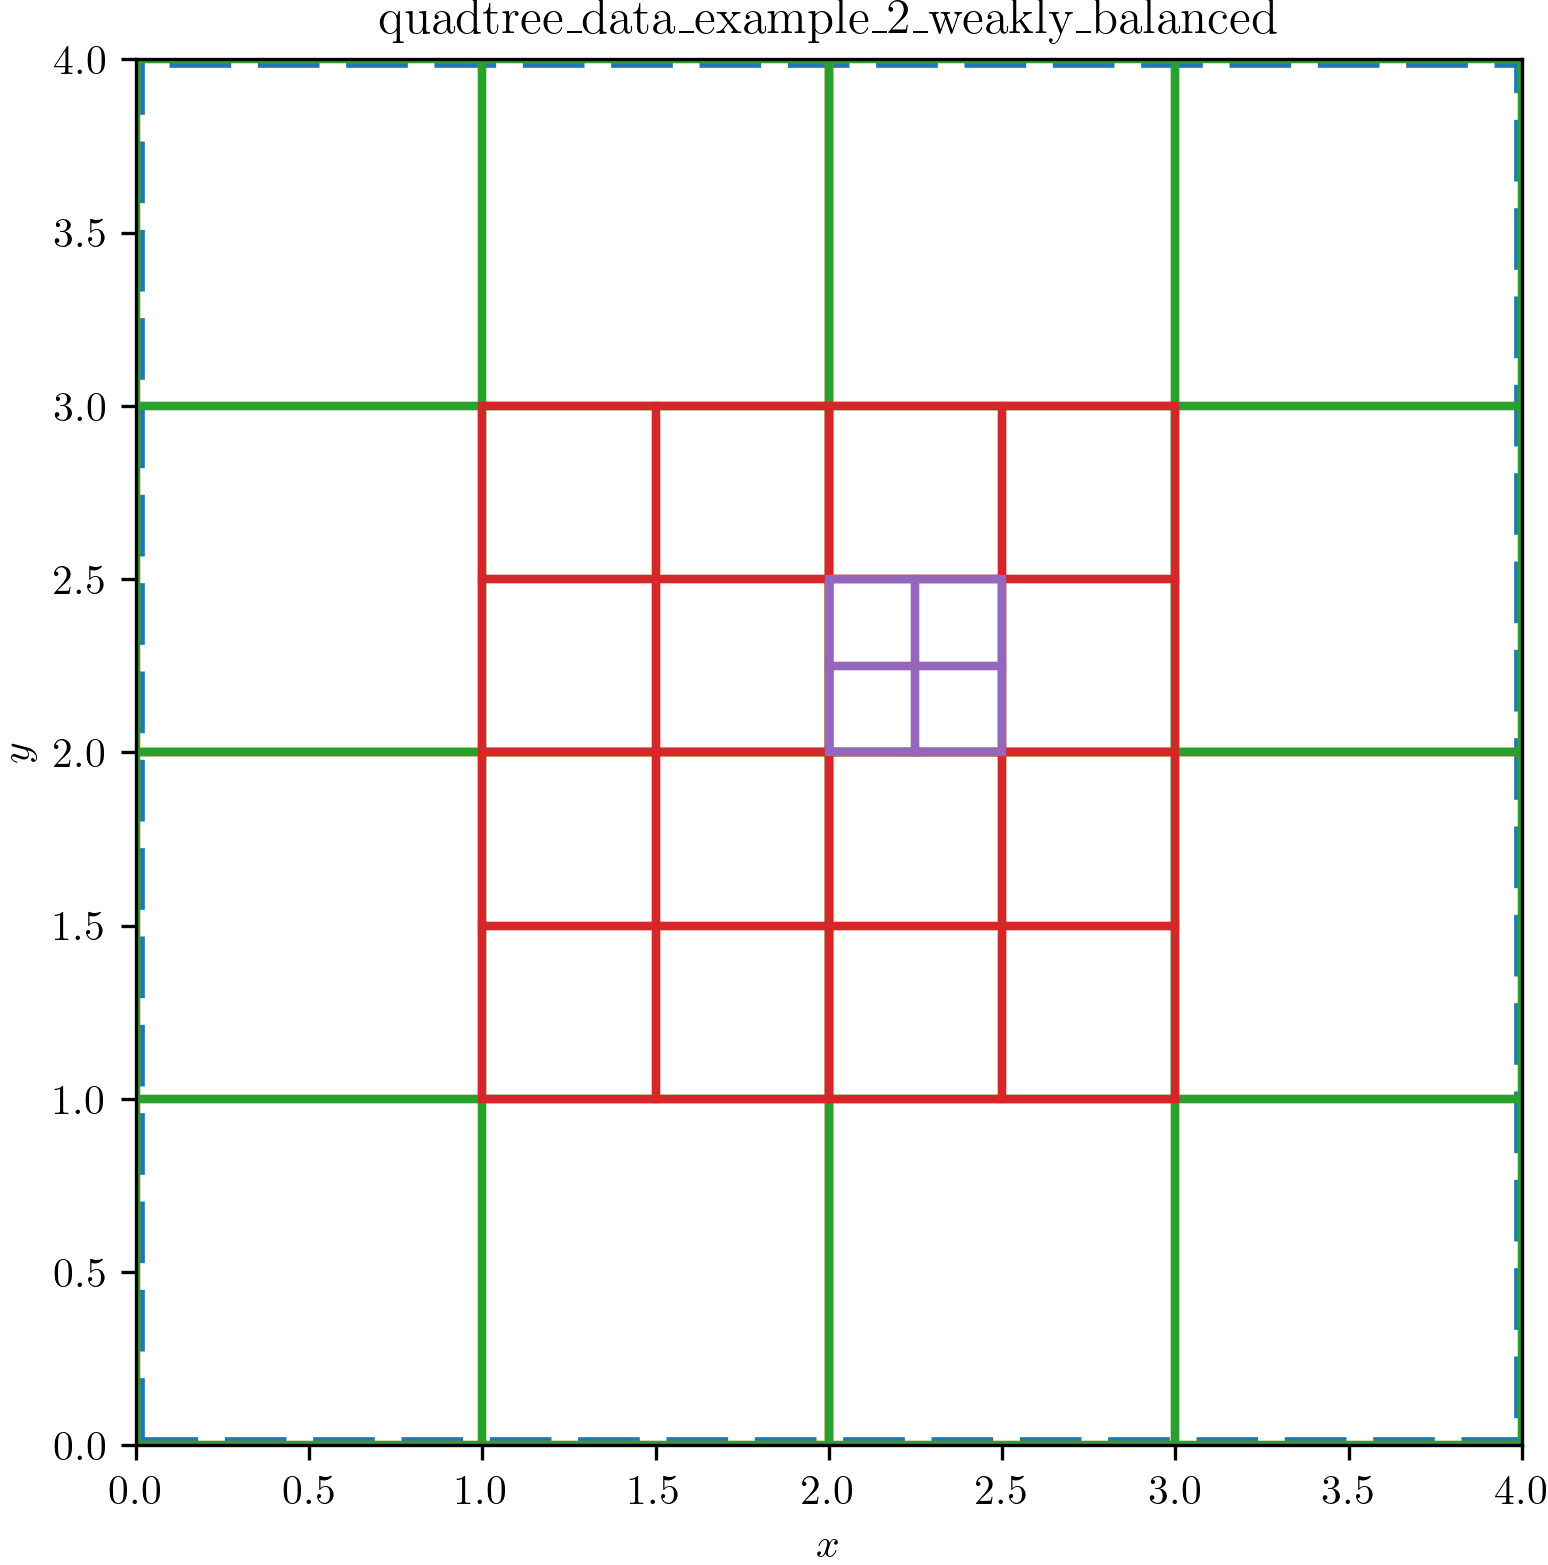
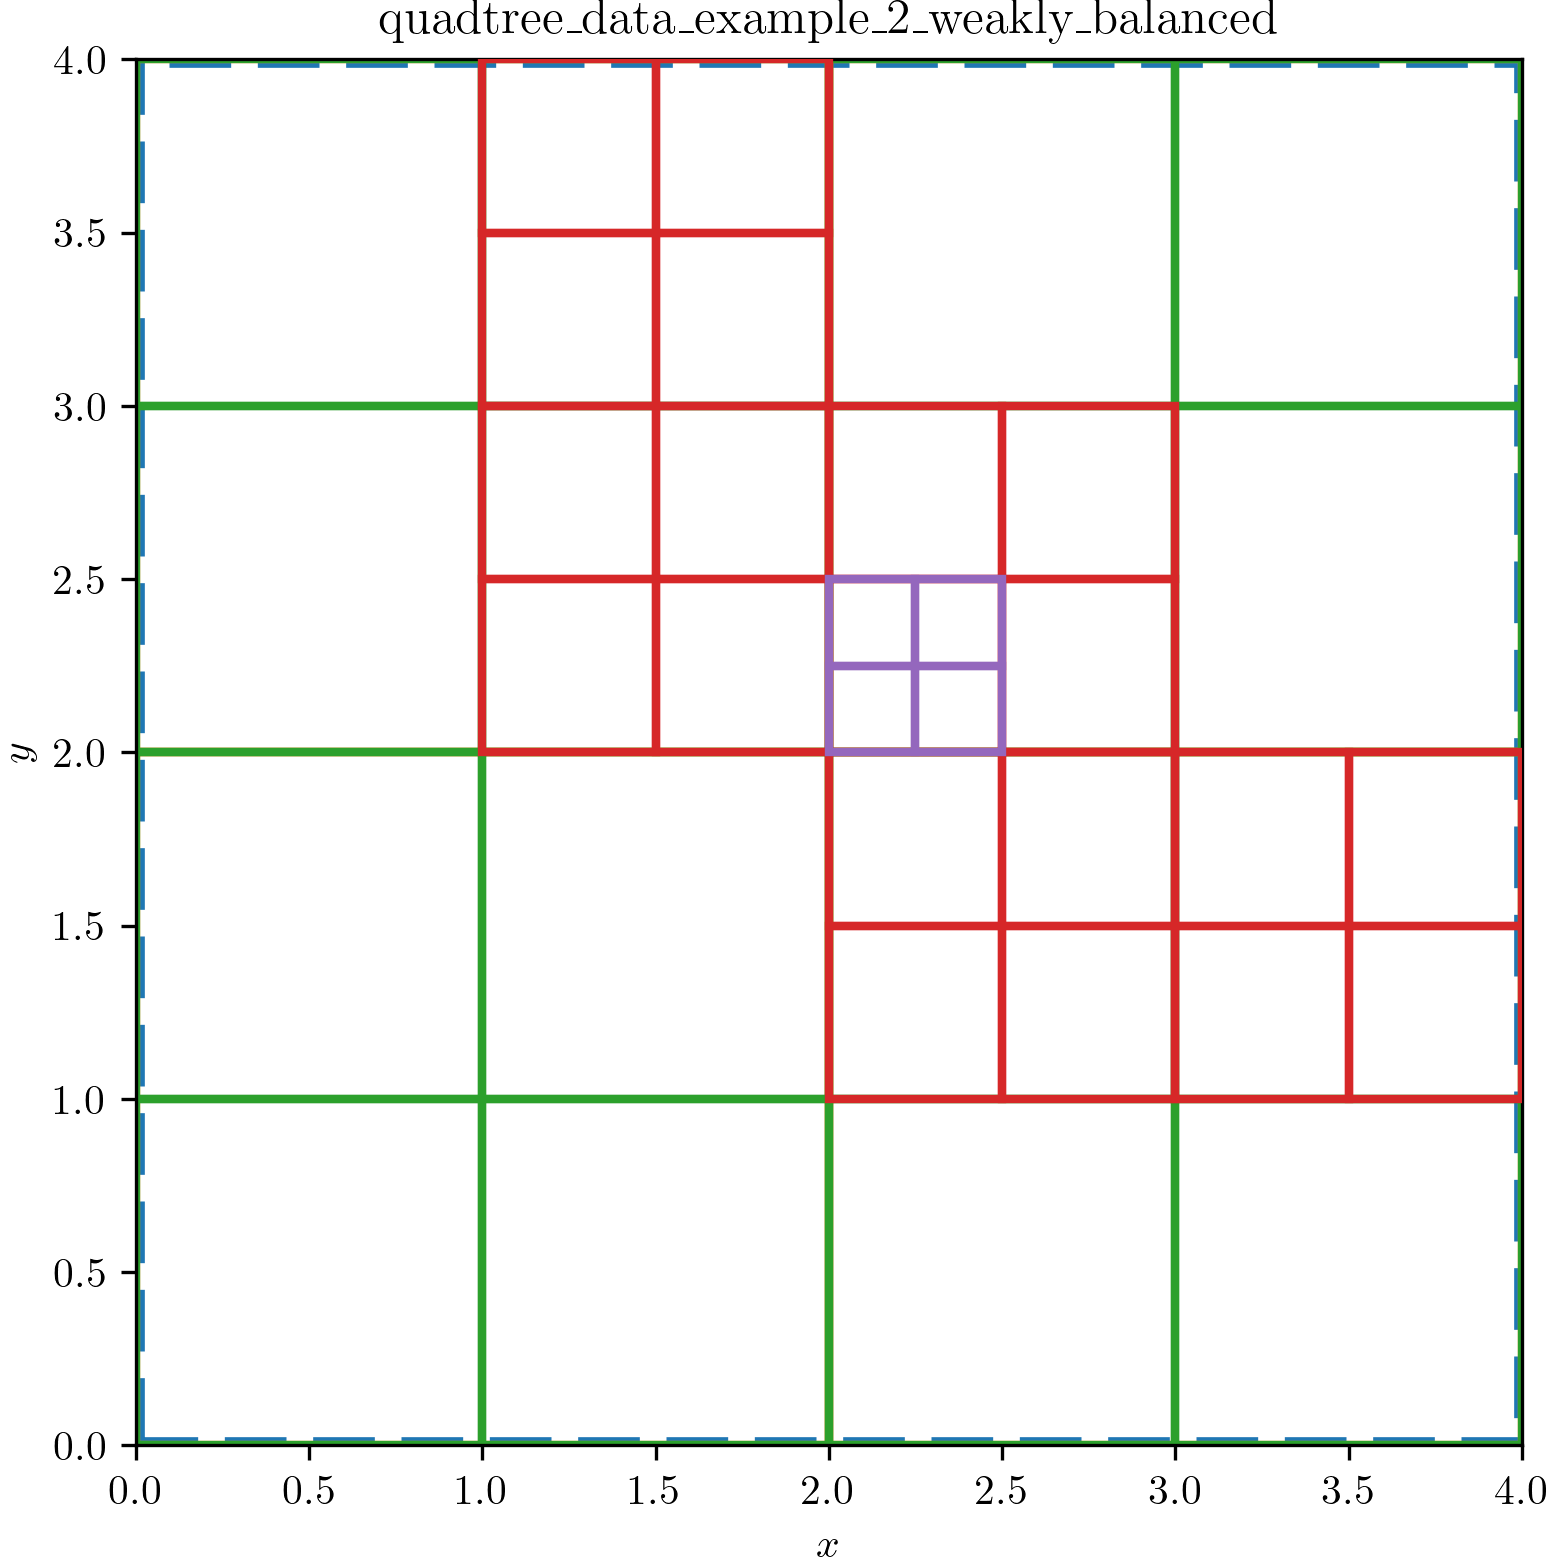
face search based on tree, not boundary small rectangle

Changed region(s): [[0.7442, 0.4601, 0.9922, 0.7054], [0.3101, 0.0307, 0.5581, 0.276], [0.3101, 0.4907, 0.5271, 0.7054]]

diff --git a/quadtree/src/lib.rs b/quadtree/src/lib.rs
@@ -49,6 +49,15 @@ pub struct Quadtree {
     pub node: Node,
 }
 
+/// A cardinal direction to search for face neighbors, to the north, east, south, west
+#[derive(Clone, Copy, Debug)]
+enum Direction {
+    North,
+    East,
+    South,
+    West,
+}
+
 impl Rectangle {
     /// Checks if a point is within the rectangle's boundary.
     ///
@@ -59,14 +68,15 @@ impl Rectangle {
             && point.y >= self.origin.y
             && point.y < self.origin.y + self.height
     }
-    // Checks if this rectangle intersects with another rectangle.
-    pub fn intersects(&self, other: &Rectangle) -> bool {
-        // No intersection if one rectangle is entirely to side of the other
-        !(self.origin.x > other.origin.x + other.width
-            || self.origin.x + self.width < other.origin.x
-            || self.origin.y > other.origin.y + other.height
-            || self.origin.y + self.height < other.origin.y)
-    }
+    // // No longer needed
+    // // Checks if this rectangle intersects with another rectangle.
+    // pub fn intersects(&self, other: &Rectangle) -> bool {
+    //     // No intersection if one rectangle is entirely to side of the other
+    //     !(self.origin.x > other.origin.x + other.width
+    //         || self.origin.x + self.width < other.origin.x
+    //         || self.origin.y > other.origin.y + other.height
+    //         || self.origin.y + self.height < other.origin.y)
+    // }
 }
 
 impl Quadtree {
@@ -295,7 +305,7 @@ impl Quadtree {
         use std::collections::HashSet;
 
         // We collect immutable leaves first, find neighbors that need subdivision,
-        // and hten will later re-aquire mutable referneces to subdivide them.
+        // and then will later re-aquire mutable referneces to subdivide them.
         let leaves = self.get_all_leaves();
         let mut to_subdivide = HashSet::new();
 
@@ -346,92 +356,131 @@ impl Quadtree {
         }
     }
 
-    /// Recursively finds all leaves that intersect with a given search area.
-    fn find_leaves_in_bounds<'a>(
-        &'a self,
-        search_area: &Rectangle,
-        found_leaves: &mut Vec<&'a Quadtree>,
-    ) {
-        if !self.boundary.intersects(search_area) {
-            return;
-        }
+    // /// Recursively finds all leaves that intersect with a given search area.
+    // fn find_leaves_in_bounds<'a>(
+    //     &'a self,
+    //     search_area: &Rectangle,
+    //     found_leaves: &mut Vec<&'a Quadtree>,
+    // ) {
+    //     if !self.boundary.intersects(search_area) {
+    //         return;
+    //     }
 
+    //     match &self.node {
+    //         Node::Leaf { .. } => {
+    //             found_leaves.push(self);
+    //         }
+    //         Node::Children { nw, ne, sw, se } => {
+    //             nw.find_leaves_in_bounds(search_area, found_leaves);
+    //             ne.find_leaves_in_bounds(search_area, found_leaves);
+    //             sw.find_leaves_in_bounds(search_area, found_leaves);
+    //             se.find_leaves_in_bounds(search_area, found_leaves);
+    //         }
+    //     }
+    // }
+
+    /// Finds all leaf nodes that share a face (edge) with a given boundary.
+    /// This is the new, traversal-based implementation.
+    fn face_neighbors<'a>(&'a self, leaf_boundary: &Rectangle) -> Vec<&'a Quadtree> {
+        let mut neighbors = Vec::new();
+        neighbors.extend(self.find_neighbors_recursive(leaf_boundary, Direction::North));
+        neighbors.extend(self.find_neighbors_recursive(leaf_boundary, Direction::East));
+        neighbors.extend(self.find_neighbors_recursive(leaf_boundary, Direction::South));
+        neighbors.extend(self.find_neighbors_recursive(leaf_boundary, Direction::West));
+        neighbors
+    }
+
+    /// Recursively finds adjacent leaves in a specific direction using tree traversal.
+    fn find_neighbors_recursive<'a>(
+        &'a self,
+        target_boundary: &Rectangle,
+        direction: Direction,
+    ) -> Vec<&'a Quadtree> {
         match &self.node {
-            Node::Leaf { .. } => {
-                found_leaves.push(self);
-            }
+            Node::Leaf { .. } => vec![], // Base case, cannot descend further
             Node::Children { nw, ne, sw, se } => {
-                nw.find_leaves_in_bounds(search_area, found_leaves);
-                ne.find_leaves_in_bounds(search_area, found_leaves);
-                sw.find_leaves_in_bounds(search_area, found_leaves);
-                se.find_leaves_in_bounds(search_area, found_leaves);
+                let center_x = self.boundary.origin.x + self.boundary.width / 2.0;
+                let center_y = self.boundary.origin.y + self.boundary.height / 2.0;
+
+                // Determine which child the target boundary is in.
+                let target_is_in_north = target_boundary.origin.y >= center_y;
+                let target_is_in_west = target_boundary.origin.x < center_x;
+
+                let child_to_search = if target_is_in_north {
+                    if target_is_in_west { nw } else { ne }
+                } else {
+                    if target_is_in_west { sw } else { se }
+                };
+
+                match direction {
+                    Direction::North => {
+                        if !target_is_in_north && target_boundary.origin.y + target_boundary.height == center_y {
+                            let northern_child = if target_is_in_west { nw } else { ne };
+                            northern_child.get_leaves_on_edge(Direction::South)
+                        } else {
+                            child_to_search.find_neighbors_recursive(target_boundary, direction)
+                        }
+                    }
+                    Direction::South => {
+                        if target_is_in_north && target_boundary.origin.y == center_y {
+                            let southern_child = if target_is_in_west { sw } else { se };
+                            southern_child.get_leaves_on_edge(Direction::North)
+                        } else {
+                            child_to_search.find_neighbors_recursive(target_boundary, direction)
+                        }
+                    }
+                    Direction::East => {
+                        if target_is_in_west && target_boundary.origin.x + target_boundary.width == center_x {
+                            let eastern_child = if target_is_in_north { ne } else { se };
+                            eastern_child.get_leaves_on_edge(Direction::West)
+                        } else {
+                            child_to_search.find_neighbors_recursive(target_boundary, direction)
+                        }
+                    }
+                    Direction::West => {
+                        if !target_is_in_west && target_boundary.origin.x == center_x {
+                            let western_child = if target_is_in_north { nw } else { sw };
+                            western_child.get_leaves_on_edge(Direction::East)
+                        } else {
+                            child_to_search.find_neighbors_recursive(target_boundary, direction)
+                        }
+                    }
+                }
             }
         }
     }
 
-    /// Finds all leaf nodes that share a face (edge) with a given boundary.
-    ///
-    /// This function queries the tree from the root to find neighbors to the
-    /// North, South, East, and West of the specified rectangular area.
-    ///
-    /// # Arguments
-    ///
-    /// * `leaf_boundary` - The boundary of the leaf for which to find neighbors.
-    ///
-    /// # Returns
-    ///
-    /// A vector of references to the neighboring leaf quadtrees.
-    fn face_neighbors<'a>(&'a self, leaf_boundary: &Rectangle) -> Vec<&'a Quadtree> {
-        let mut neighbors = Vec::new();
-        // A small epsilon helps robustly find neighbors by creating a thin search
-        // rectangle that slightly overlaps the boundary edge.
-        let epsilon = 0.0001 * leaf_boundary.width;
-
-        // North neighbor search area
-        let north_search = Rectangle {
-            origin: Point {
-                x: leaf_boundary.origin.x,
-                y: leaf_boundary.origin.y + leaf_boundary.height,
-            },
-            width: leaf_boundary.width,
-            height: epsilon,
-        };
-        self.find_leaves_in_bounds(&north_search, &mut neighbors);
-
-        // South neighbor search area
-        let south_search = Rectangle {
-            origin: Point {
-                x: leaf_boundary.origin.x,
-                y: leaf_boundary.origin.y - epsilon,
-            },
-            width: leaf_boundary.width,
-            height: epsilon,
-        };
-        self.find_leaves_in_bounds(&south_search, &mut neighbors);
-
-        // East neighbor search area
-        let east_search = Rectangle {
-            origin: Point {
-                x: leaf_boundary.origin.x + leaf_boundary.width,
-                y: leaf_boundary.origin.y,
-            },
-            width: epsilon,
-            height: leaf_boundary.height,
-        };
-        self.find_leaves_in_bounds(&east_search, &mut neighbors);
-
-        // West neighbor search area
-        let west_search = Rectangle {
-            origin: Point {
-                x: leaf_boundary.origin.x - epsilon,
-                y: leaf_boundary.origin.y,
-            },
-            width: epsilon,
-            height: leaf_boundary.height,
-        };
-        self.find_leaves_in_bounds(&west_search, &mut neighbors);
-
-        neighbors
+    /// Helper function to get all leaves on a specific edge of a quadtree node.
+    fn get_leaves_on_edge<'a>(&'a self, edge: Direction) -> Vec<&'a Quadtree> {
+        match &self.node {
+            Node::Leaf { .. } => vec![self],
+            Node::Children { nw, ne, sw, se } => match edge {
+                Direction::North => {
+                    // Collect 'north' from nw and ne
+                    let mut leaves = nw.get_leaves_on_edge(edge);
+                    leaves.extend(ne.get_leaves_on_edge(edge));
+                    leaves
+                }
+                Direction::East => {
+                    // Collect 'east' from ne and se
+                    let mut leaves = ne.get_leaves_on_edge(edge);
+                    leaves.extend(se.get_leaves_on_edge(edge));
+                    leaves
+                }
+                Direction::South => {
+                    // Collect 'south' from sw and se
+                    let mut leaves = sw.get_leaves_on_edge(edge);
+                    leaves.extend(se.get_leaves_on_edge(edge));
+                    leaves
+                }
+                Direction::West => {
+                    // Collect 'west' from nw and sw
+                    let mut leaves = nw.get_leaves_on_edge(edge);
+                    leaves.extend(sw.get_leaves_on_edge(edge));
+                    leaves
+                }
+            }
+        }
     }
 
     pub fn to_yaml(&self) -> Result<String, serde_yaml::Error> {

diff --git a/quadtree/src/main.rs b/quadtree/src/main.rs
@@ -50,7 +50,7 @@ fn main() -> Result<(), String> {
 
     // Visualize the unbalanced tree
     println!("\nVisualizing quadtree BEFORE balancing...");
-    if let Err(e) = tree_1.visualize(&scratch_path_str, "example_1_before_balance") {
+    if let Err(e) = tree_1.visualize(&scratch_path_str, "example_1_before_balancing") {
         eprintln!("Visualization failed: {}", e);
     }
 
@@ -61,7 +61,7 @@ fn main() -> Result<(), String> {
 
     // Visualize the balanced tree
     println!("\nVisualizing quadtree AFTER balancing...");
-    if let Err(e) = tree_1.visualize(&scratch_path_str, "example_1_after_balance") {
+    if let Err(e) = tree_1.visualize(&scratch_path_str, "example_1_weakly_balanced") {
         eprintln!("Visualization filed: {}", e);
     }
 
@@ -110,7 +110,7 @@ fn main() -> Result<(), String> {
 
     // Visualize the unbalanced tree
     println!("\nVisualizing quadtree BEFORE balancing...");
-    if let Err(e) = tree_2.visualize(&scratch_path_str, "example_2_unbalanced") {
+    if let Err(e) = tree_2.visualize(&scratch_path_str, "example_2_before_balancing") {
         eprintln!("Visualization failed: {}", e);
     }
 

diff --git a/quadtree/README.md b/quadtree/README.md
@@ -168,7 +168,7 @@ The **balance constraint** is stated as,
 
 **"Leaf cell" specification**: The balance constraint applies only to a leaf node in the quadtree, not to internal nodes that have children.
 
-## Example 2: 
+## Example 2: Manual Subdivision
 
 This example uses the `Quadtree` method: `subdivide`, `weak_balance`, and `strong_balance`.
 We recreate the **weakly balanced** quadtree example from [Pitzalis 2021](https://dl.acm.org/doi/pdf/10.1145/3478513.3480508), shown below:
@@ -220,15 +220,20 @@ let ne_sw_sw = match &mut ne_sw.node {
 ne_sw_sw.subdivide(); // L3 -> L4
 ```
 
-The **unbalanced** (left) and (? - bug) **weakly balanced** (right) quadtrees are shown below:
+The **unbalanced** (left) and **weakly balanced** (right) quadtrees are shown below:
 
-unbalanced | weakly balanced (? - bug)
+unbalanced | weakly balanced
 :---: | :---:
-![quadtree_data_example_2_unbalanced](img/quadtree_data_example_2_unbalanced.png) | ![quadtree_data_example_2_weakly_balanced](img/quadtree_data_example_2_weakly_balanced.png)
+![quadtree_data_example_2_before_balancing](img/quadtree_data_example_2_before_balancing.png) | ![quadtree_data_example_2_weakly_balanced](img/quadtree_data_example_2_weakly_balanced.png)
 
-The weakly balanced currently has a bug:  The red `SW_NE` level 2 (green) should not be refined to level 3 (red).
-It appears this last tree is actually *strongly* balanced by accident (for now).
+## Example 1 (revisited) for Weakly Balancing
 
-### Example: Strongly Balanced Quadtree
+The *Example 1* **unbalanced** (left) and **weakly balanced** (right) quadtrees are shown below:
+
+unbalanced | weakly balanced
+:---: | :---:
+![quadtree_data_example_1_before_balancing](img/quadtree_data_example_1_before_balancing.png) | ![quadtree_data_example_1_weakly_balanced](img/quadtree_data_example_1_weakly_balanced.png)
+
+## Example 3: Strongly Balanced Quadtree
 
 To come.
